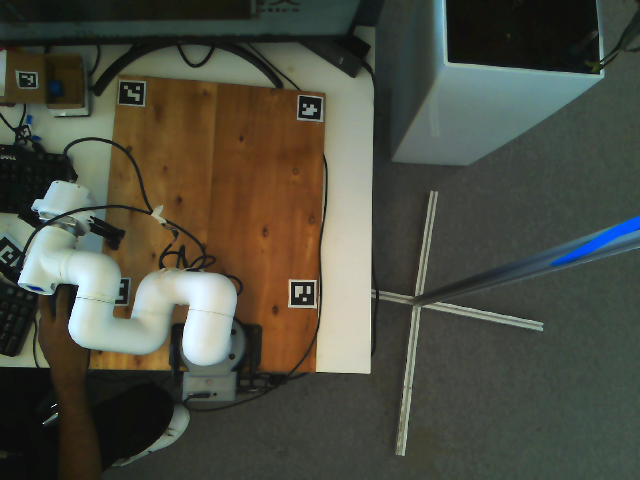
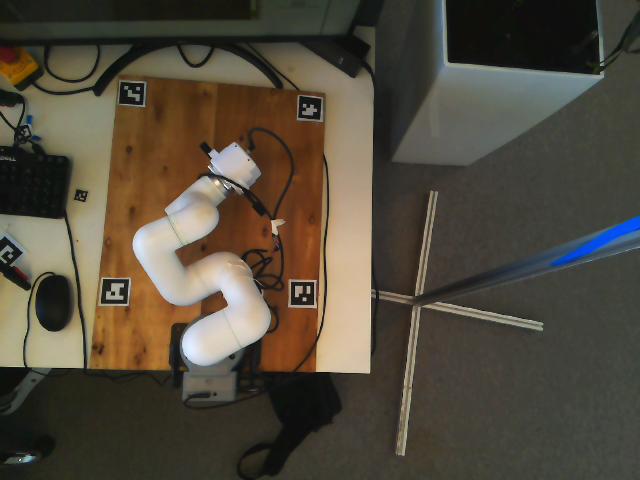
feat(dream): chiffrer le biais DREAM — 52 px systematiques sur ce montage
La FK et les extrinseques marqueurs ayant ete validees la veille sur deux
cameras, l'ecart restant est mesurable. Sur des poses de travail (bras
au-dessus de la planche, pince vers le bas), les keypoints DREAM se
decalent TOUS dans la meme direction.

Sur 22 correspondances et 4 poses : DREAM = FK donne 56,5 px de RMS ; une
simple translation (+31,6, -41,2) le ramene a 22,0 px ; ajouter echelle
(0,905) et rotation (+10,7 deg) ne gagne que 4,7 px, et l'affine complete
rien. Decalage moyen 51,2 px, dispersion 23,3 px. A 1,06 m et f~495 px,
52 px valent ~11 cm sur la planche : l'ordre de grandeur des pick qui
ratent de quelques centimetres.

Cause la plus probable : le reseau a ete affine sur real_3cam, ou
l'arducam etait sur un AUTRE montage (convert_to_ndds.py:87-92). Il a
appris un a priori de point de vue. Cela explique aussi que la self-cal
place la camera ~1 m a cote : le PnP absorbe un decalage uniforme de
52 px en une grande translation. Alternative non exclue, un decalage
constant en XY monde, indiscernable sous une camera zenithale.

Trois hypotheses testees et ECARTEES par la mesure, pas par l'intuition.
L'exposition : balayee de 20 a 300, 0 a 4/7, aucun optimum. Le recadrage
reseau : shrink-and-crop 640x480 -> 400x400 ne garde que x dans [80, 560]
et jette 25 % de l'image, mais les 7 keypoints etaient dans la fenetre
sur les 4 poses et le decalage restait de 51,2 px. Un decalage en repere
lien : l'ecart ne tourne pas quand J1 passe de 12 a 58 deg.
[…]

diff --git a/scripts/fk_vs_dream_series.py b/scripts/fk_vs_dream_series.py
@@ -1,0 +1,168 @@
+#!/usr/bin/env python3
+# -*- coding: utf-8 -*-
+"""Biais DREAM mesure sur des poses FAVORABLES — le bras BOUGE.
+
+`fk_vs_dream_diagnostic.py` a valide la FK et les extrinseques marqueurs sur la
+pose courante : le squelette projete epouse le bras dans les deux vues. Mais il
+l'a fait sur des poses ou DREAM decroche (bras hors planche, fond encombre), donc
+l'ecart mesure la-bas melange le biais du reseau et son echec de detection.
+
+Ici on rejoue la meme comparaison sur les poses de travail, ou DREAM detecte :
+bras au-dessus de la planche, pince pointee vers le bas a 7-12 deg de la
+verticale. La FK etant desormais validee, l'ecart restant est du VRAI biais.
+
+/!\\ LE BRAS BOUGE. Degager la zone avant de lancer.
+
+Usage (venv_dream) :
+    python scripts/fk_vs_dream_series.py            # les 8 poses
+    python scripts/fk_vs_dream_series.py --n 3      # les 3 premieres
+"""
+import argparse
+import sys
+import time
+from pathlib import Path
+
+import cv2
+import numpy as np
+import yaml
+
+RACINE = Path(__file__).resolve().parents[1]
+sys.path.insert(0, str(RACINE / 'scripts'))
+
+from fk_vs_dream_diagnostic import (                            # noqa: E402
+    CALIB, SORTIE, VUES, COURT, CHECKPOINT, VERT, ORANGE, BLANC, NOIR, FOND,
+    FONT, capture, texte)
+from mycobot_fk import forward_kinematics, KEYPOINT_NAMES       # noqa: E402
+import camera_registry as registre                              # noqa: E402
+import dream                                                    # noqa: E402
+
+# Derivees des points de travail enregistres (pick_approach, pick,
+# observation_clear) en ne faisant tourner que J1 : cette rotation conserve
+# EXACTEMENT l'inclinaison de l'outil, donc la pince reste pointee vers le bas.
+# Source : POSES_CALIB de pick_and_place_live_dashboard.py.
+POSES = [
+    [28.53, -118.74, 82.79, -102.56, -17.84, 49.83],
+    [58.53, -118.74, 82.79, -102.56, -17.84, 49.83],
+    [88.53, -118.74, 82.79, -102.56, -17.84, 49.83],
+    [11.92, -128.67, 76.55, -53.43, -3.69, 21.79],
+    [41.92, -128.67, 76.55, -53.43, -3.69, 21.79],
+    [71.92, -128.67, 76.55, -53.43, -3.69, 21.79],
+    [53.05, -120.05, 90.00, -60.55, 10.28, 6.24],
+    [83.05, -120.05, 90.00, -60.55, 10.28, 6.24],
+]
+PAS_MAX_DEG = 30.0     # un ordre unique depuis une pose eloignee fait partir
+                       # toutes les articulations a fond en meme temps
+
+
+def rejoint(pont, cible, vitesse=25, tol=0.6, attente=10.0):
+    """Rejoint `cible` par paliers, puis attend l'immobilisation reelle."""
+    depart = np.array(pont.get_angles(), float)
+    cible = np.array(cible, float)
+    n = max(1, int(np.ceil(np.max(np.abs(cible - depart)) / PAS_MAX_DEG)))
+    for i in range(1, n + 1):
+        etape = depart + (cible - depart) * (i / n)
+        pont.send({'action': 'send_angles',
+                   'angles': [round(float(v), 2) for v in etape],
+                   'speed': vitesse})
+        time.sleep(1.6)
+    t0, precedent = time.time(), None
+    while time.time() - t0 < attente:
+        q = np.array(pont.get_angles(), float)
+        if precedent is not None and np.max(np.abs(q - precedent)) < tol:
+            return q
+        precedent = q
+        time.sleep(0.5)
+    return np.array(pont.get_angles(), float)
+
+
+def modele_camera(cfg):
+    d = yaml.safe_load((CALIB / f"{cfg['extr']}.yaml").read_text())
+    T = np.array(d['T_cam_world'], float)
+    K, dist = registre.load_intrinsics(d['intrinsics_stem'])
+    return cv2.Rodrigues(T[:3, :3])[0], T[:3, 3], K, dist
+
+
+def main():
+    ap = argparse.ArgumentParser()
+    ap.add_argument('--n', type=int, default=len(POSES))
+    ap.add_argument('--host', default='10.10.0.224')
+    args = ap.parse_args()
+    poses = POSES[:args.n]
+
+    from pick_and_place_real import Bridge
+    pont = Bridge(args.host)
+    print(f'Depart : {np.round(pont.get_angles(), 1).tolist()}')
+    print(f'{len(poses)} poses — LE BRAS VA BOUGER\n')
+
+    net = dream.create_network_from_config_file(
+        str(CHECKPOINT.with_suffix('.yaml')), str(CHECKPOINT))
+    cameras = {nom: modele_camera(cfg) for nom, cfg in VUES}
+    from PIL import Image
+
+    # {camera: {keypoint: [ecarts px]}} + compte de detections
+    ecarts = {nom: {k: [] for k in COURT} for nom, _ in VUES}
+    detectes = {nom: [] for nom, _ in VUES}
+    vignettes = []
+
+    for i, pose in enumerate(poses, 1):
+        q = rejoint(pont, pose)
+        pos, _ = forward_kinematics(np.radians(q))
+        obj = np.array([pos[n] for n in KEYPOINT_NAMES], float)
+        ligne = f'pose {i}/{len(poses)}  q={np.round(q, 1).tolist()}'
+
+        for nom, cfg in VUES:
+            rvec, tvec, K, dist = cameras[nom]
+            proj = cv2.projectPoints(obj, rvec, tvec, K, dist)[0].reshape(-1, 2)
+            image = capture(cfg)
+            h, w = image.shape[:2]
+            kps = np.array(net.keypoints_from_image(
+                Image.fromarray(cv2.cvtColor(image, cv2.COLOR_BGR2RGB))
+            )['detected_keypoints'], float)
+
+            vus = 0
+            for k, court in enumerate(COURT):
+                fu, fv = proj[k]
+                du, dv = kps[k]
+                if np.all(np.isfinite(kps[k])) and 0 <= du < w and 0 <= dv < h:
+                    ecarts[nom][court].append(float(np.hypot(fu - du, fv - dv)))
+                    vus += 1
+                    cv2.line(image, (int(fu), int(fv)), (int(du), int(dv)),
+                             BLANC, 1, cv2.LINE_AA)
+                    cv2.circle(image, (int(du), int(dv)), 5, ORANGE, -1, cv2.LINE_AA)
+                cv2.circle(image, (int(fu), int(fv)), 7, VERT, 2, cv2.LINE_AA)
+            for a, b in zip(range(6), range(1, 7)):
+                cv2.line(image, tuple(proj[a].astype(int)),
+                         tuple(proj[b].astype(int)), VERT, 2, cv2.LINE_AA)
+            detectes[nom].append(vus)
+            ligne += f'   {nom} {vus}/7'
+            if nom == 'arducam':
+                v = cv2.resize(image, (320, 240))
+                texte(v, f'{i}: {vus}/7', (8, 22), BLANC, 0.5)
+                vignettes.append(v)
+        print(ligne)
+
+    print('\n=== biais FK<->DREAM sur poses favorables ===')
+    print(f'{"":8s} ' + ' '.join(f'{c:>9s}' for c in COURT))
+    for nom, _ in VUES:
+        med = []
+        for c in COURT:
+            e = ecarts[nom][c]
+            med.append(f'{np.median(e):7.0f}px' if e else f'{"-":>9s}')
+        print(f'{nom:8s} ' + ' '.join(f'{m:>9s}' for m in med))
+        n = detectes[nom]
+        print(f'{"":8s} detections {np.mean(n):.1f}/7 en moyenne '
+              f'(min {min(n)}, max {max(n)})')
+
+    if vignettes:
+        cols = 4
+        lignes = [np.hstack(vignettes[i:i + cols] + [np.zeros(
+            (240, 320 * (cols - len(vignettes[i:i + cols])), 3), np.uint8)]
+            if len(vignettes[i:i + cols]) < cols else vignettes[i:i + cols])
+            for i in range(0, len(vignettes), cols)]
+        grille = np.vstack(lignes)
+        cv2.imwrite(str(SORTIE / 'fk_vs_dream_series.png'), grille)
+        print('\ngrille :', SORTIE / 'fk_vs_dream_series.png')
+
+
+if __name__ == '__main__':
+    main()

diff --git a/scripts/fk_vs_dream_diagnostic.py b/scripts/fk_vs_dream_diagnostic.py
@@ -33,6 +33,7 @@ Usage (venv_dream) :
         --angles 82.7,-122.6,88.76,-61.08,10.89,6.5
 """
 import argparse
+import subprocess
 import sys
 from pathlib import Path
 
@@ -53,9 +54,18 @@ import dream                                                    # noqa: E402
 from mycobot_fk import forward_kinematics, KEYPOINT_NAMES       # noqa: E402
 import camera_registry as registre                              # noqa: E402
 
+# L'arducam est debranchee/rebranchee de temps en temps : son /dev/videoN
+# change et elle PERD son exposition. On la retrouve donc par son nom V4L2,
+# et on reimpose 75 a chaque capture — la valeur du registre (cam_3) sur
+# laquelle l'extrinseque a ete faite. Sans ce forcage, une camera revenue en
+# auto apres un replug fait croire a une regression de detection.
+# (L'exposition ne change pas la detection : balayee 20-300 le 01/09, 0 a
+# 4/7, aucun optimum. Mais on la fige pour que les mesures soient comparables.)
 VUES = [
-    ('arducam', {'index': 2, 'exposition': 75, 'extr': 'arducam_extrinsic_pick'}),
-    ('svpro',   {'index': 0, 'exposition': None, 'extr': 'svpro_extrinsic_servo'}),
+    ('arducam', {'nom_v4l2': 'Arducam', 'exposition': 75,
+                 'extr': 'arducam_extrinsic_pick'}),
+    ('svpro',   {'nom_v4l2': '5MP', 'exposition': None,
+                 'extr': 'svpro_extrinsic_servo'}),
 ]
 COURT = ['base', 'J1', 'J2', 'J3', 'J4', 'J5', 'bride']
 VERT, ORANGE, BLANC, NOIR = (60, 220, 60), (0, 165, 255), (255, 255, 255), (0, 0, 0)
@@ -80,16 +90,29 @@ def texte(img, s, xy, couleur, echelle=0.5, epais=1, halo=True):
     cv2.putText(img, s, xy, FONT, echelle, couleur, epais, cv2.LINE_AA)
 
 
-def capture(index, exposition):
+def index_v4l2(motif):
+    """Premier /dev/videoN capable de capturer, pour la camera nommee `motif`."""
+    sortie = subprocess.run(['v4l2-ctl', '--list-devices'],
+                            capture_output=True, text=True).stdout
+    for bloc in sortie.split('\n\n'):
+        if motif.lower() in bloc.split('\n')[0].lower():
+            for ligne in bloc.split('\n')[1:]:
+                ligne = ligne.strip()
+                if ligne.startswith('/dev/video'):
+                    return int(ligne.removeprefix('/dev/video'))
+    raise SystemExit(f'camera introuvable : {motif}')
+
+
+def capture(cfg):
     """Trame 640x480 — l'intrinseque n'est valable que dans CE mode."""
+    index = cfg['index'] if 'index' in cfg else index_v4l2(cfg['nom_v4l2'])
     cap = cv2.VideoCapture(index, cv2.CAP_V4L2)
     cap.set(cv2.CAP_PROP_FRAME_WIDTH, 640)
     cap.set(cv2.CAP_PROP_FRAME_HEIGHT, 480)
-    if exposition is not None:
-        import subprocess
+    if cfg.get('exposition') is not None:
         subprocess.run(['v4l2-ctl', '-d', f'/dev/video{index}',
                         '-c', 'auto_exposure=1',
-                        '-c', f'exposure_time_absolute={exposition}'],
+                        '-c', f"exposure_time_absolute={cfg['exposition']}"],
                        capture_output=True)
     # Vider le tampon V4L2 : sans ca on lit une trame anterieure, prise pendant
     # un mouvement, donc floue — la detection passait de 7/7 a 2/7 (31/08).
@@ -115,7 +138,7 @@ def panneau(nom, cfg, obj, net, brut):
         if image is None:
             raise SystemExit(f'image brute absente : {chemin_brut}')
     else:
-        image = capture(cfg['index'], cfg['exposition'])
+        image = capture(cfg)
         cv2.imwrite(str(chemin_brut), image)
 
     from PIL import Image

diff --git a/CHANGELOG.md b/CHANGELOG.md
@@ -42,6 +42,48 @@ et ce projet adhère au [Semantic Versioning](https://semver.org/spec/v2.0.0.htm
 
 ### Ajouté
 
+- **`scripts/fk_vs_dream_series.py` — le biais DREAM est mesuré : ~52 px
+  systématiques (01/09).** Sur des poses de travail (bras au-dessus de la
+  planche, pince vers le bas), avec une FK et des extrinsèques déjà validées,
+  les keypoints DREAM se décalent **tous dans la même direction** :
+
+  | modèle ajusté (22 correspondances, 4 poses) | RMS résiduel |
+  |---|---|
+  | aucun (DREAM = FK) | 56,5 px |
+  | **translation** `(+31,6, −41,2)` | **22,0 px** |
+  | similitude (échelle 0,905, rot +10,7°) | 17,3 px |
+  | affine complète | 16,8 px |
+
+  Une translation seule absorbe l'essentiel ; échelle et rotation n'apportent
+  que 4,7 px. Décalage moyen **51,2 px**, dispersion 23,3 px. À 1,06 m et
+  f ≈ 495 px, 52 px valent **~11 cm** sur la planche — l'ordre de grandeur des
+  pick qui ratent de quelques centimètres.
+
+  **Cause la plus probable : le réseau a été affiné sur `real_3cam`, où
+  l'arducam était sur un AUTRE montage** (cf. `convert_to_ndds.py:87-92`). Il a
+  appris un a priori de point de vue. Ceci explique aussi que la
+  self-calibration place la caméra ~1 m à côté : le PnP absorbe un décalage
+  uniforme de 52 px en une grande translation.
+
+  Alternative non exclue : un décalage constant en XY monde (indiscernable d'un
+  décalage image sous une caméra zénithale). La SVPRO trancherait, mais elle ne
+  détecte que 0-3/7.
+
+- **DREAM ne voit que 75 % de l'image.** `image_preprocessing: shrink-and-crop`,
+  640×480 → 400×400 : la fenêtre réseau est **x ∈ [80, 560]**, deux bandes
+  verticales de 80 px sont jetées. Quand le bras part à gauche (J1 ≈ 88°) la
+  bride tombe à x ≈ 60, **hors champ réseau** — la détection s'effondre à 1/7.
+  Ce n'est pas « le bras a quitté la planche », c'est le recadrage. La
+  bibliothèque inverse correctement le recadrage (`convert_keypoints_to_raw_from_netin`),
+  donc ce n'est **pas** la cause des 52 px : vérifié, les 7 keypoints étaient
+  dans la fenêtre sur les 4 poses mesurées.
+
+- **Diagnostic robuste au rebranchement de l'arducam.** Caméra retrouvée par son
+  nom V4L2 (son `/dev/videoN` change au replug) et exposition **75** réimposée à
+  chaque capture (elle est perdue au replug). Un balayage 20→300 confirme que
+  l'exposition ne change pas la détection (0 à 4/7, aucun optimum) — on la fige
+  pour que les mesures soient comparables, pas pour améliorer quoi que ce soit.
+
 - **`scripts/fk_vs_dream_diagnostic.py` — départage la FK et DREAM.** La
   self-calibration markerless laissait un résidu systématique (`link3` à
   23,6 px) qu'aucune pose de caméra n'expliquait : erreur de FK, ou biais de

diff --git a/SESSION_RESUME.md b/SESSION_RESUME.md
@@ -1,5 +1,55 @@
 # Reprise — pick adaptatif LIVE par démonstration
 
+## État actuel (1er septembre 2026 — le biais DREAM est chiffré)
+
+### Ce qui a été accompli
+
+Le bras a été bougé sur les poses de travail, FK et extrinsèques déjà validées
+la veille. **Le biais DREAM est mesuré : décalage systématique de ~52 px**,
+soit ~11 cm sur la planche. Une translation `(+31,6, −41,2)` fait tomber le RMS
+de 56,5 à 22,0 px ; échelle et rotation n'apportent que 4,7 px de plus.
+
+**Cause la plus probable** : affinage sur `real_3cam`, où l'arducam était sur un
+autre montage (`convert_to_ndds.py:87-92`) → a priori de point de vue appris.
+Explique aussi la caméra placée ~1 m à côté par la self-cal : le PnP absorbe le
+décalage uniforme en une translation.
+
+**Fenêtre réseau** : `shrink-and-crop` 640×480 → 400×400 ne garde que
+**x ∈ [80, 560]**. Bras à gauche (J1 ≈ 88°) → bride hors champ → 1/7.
+
+### Hypothèses testées et ÉCARTÉES
+
+| hypothèse | mesure | verdict |
+|---|---|---|
+| erreur de FK | vert collé au bras, 2 caméras, 2 poses | écartée (31/08) |
+| exposition arducam | balayage 20→300 : 0 à 4/7, aucun optimum | écartée |
+| recadrage réseau | 7/7 keypoints dans la fenêtre, décalage 51,2 px quand même | écartée |
+| décalage en repère lien | l'écart ne tourne pas avec J1 (12°→58°) | écartée |
+
+Alternative **non exclue** : décalage constant en XY monde — indiscernable d'un
+décalage image sous caméra zénithale. La SVPRO trancherait mais ne détecte que
+0-3/7.
+
+### Prochaines actions
+
+1. [ROUGE] Décider : réentraîner/affiner sur le montage actuel, ou acter que
+   l'extrinsèque marqueurs reste la référence pour le pick. **En l'état, la
+   self-calibration markerless n'est pas utilisable en production** — 11 cm.
+2. [JAUNE] Poses de travail : garder le bras dans x ∈ [80, 560]. J1 ≈ 42° donne
+   7/7, J1 ≈ 88° donne 1/7.
+3. [VERT] Corriger `convert_to_ndds.py:102` (`arducam → cam_0`, or c'est `cam_3`).
+
+### Commande rapide de reprise
+
+```bash
+source ~/ros_jazzy/venv_dream/bin/activate
+ln -sfn /home/genji/DREAM /tmp/DREAM
+python3 scripts/fk_vs_dream_diagnostic.py     # pose courante, bras immobile
+python3 scripts/fk_vs_dream_series.py --n 4   # LE BRAS BOUGE
+```
+
+---
+
 ## État actuel (31 août 2026 — nuit, FK validée contre DREAM)
 
 ### Ce qui a été accompli
